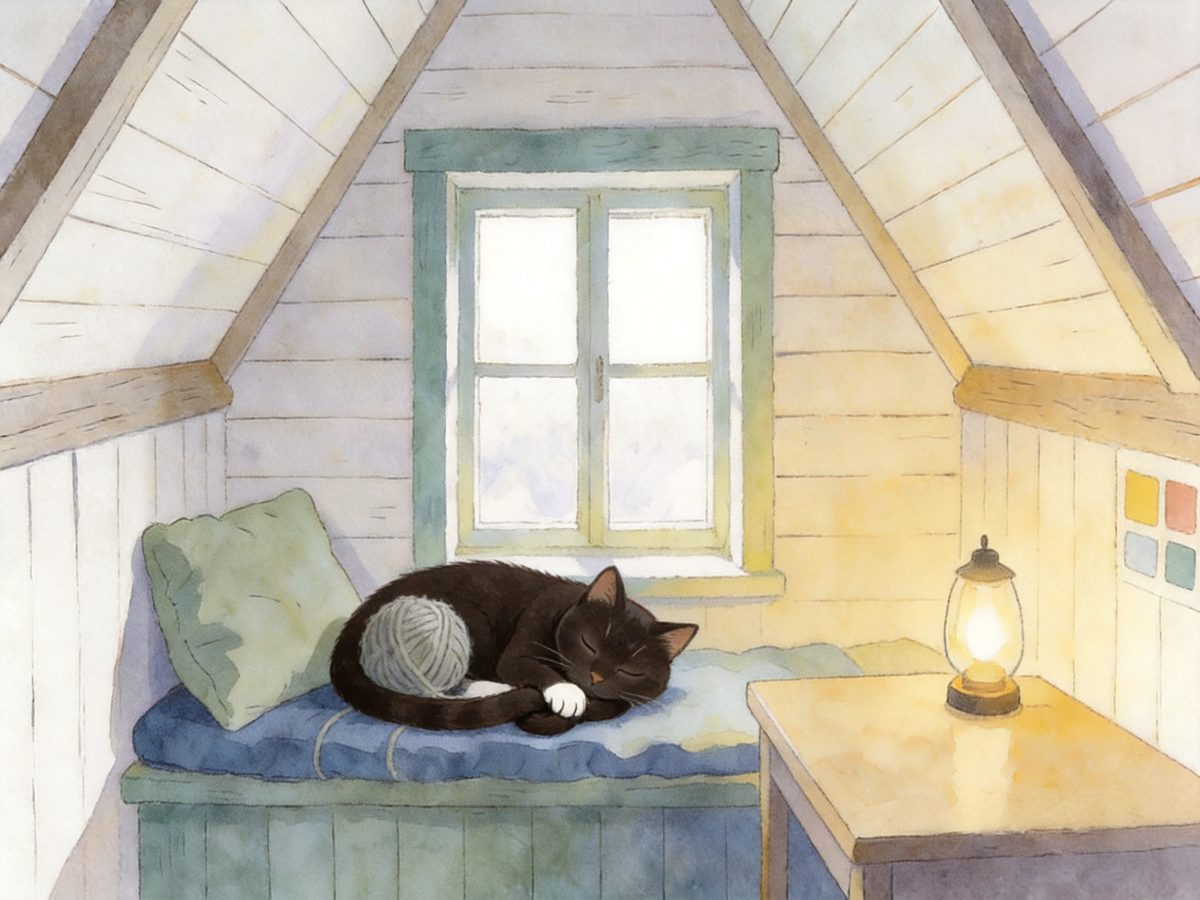
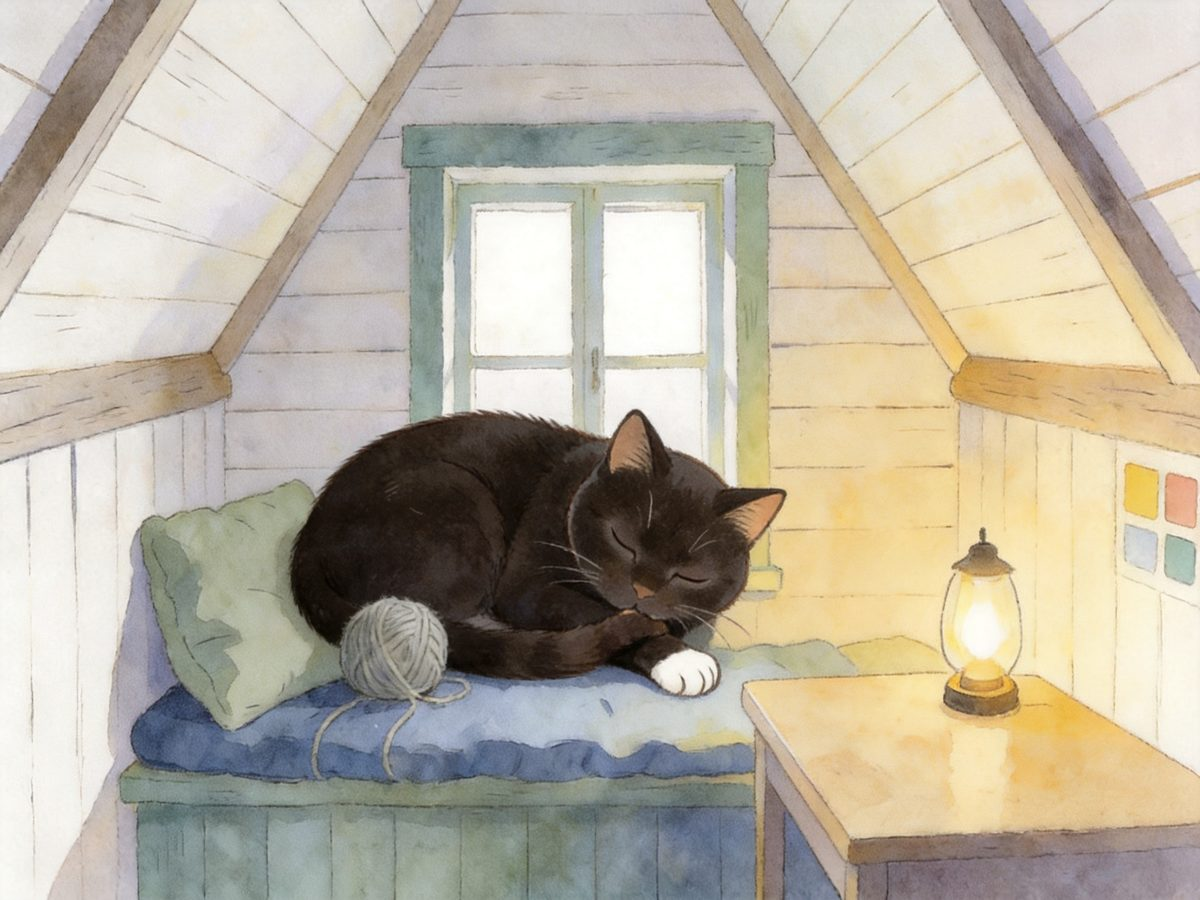
小屋 V1.5:从档案册到窗户——现场感优先
- 首屏顺序反转:小屋标题 → 猫啊岛第N天·时段·实时位置 → 「它正在……」
  (加大) → 心情 → 门口的生活痕迹(六句按天轮换) → 外貌/标签/简介弱化垫底
- 「最近这些天」替代角色总结:读每日结算的真实变化(赚了鱼币/和谁近了/
  心事进展),无数据才回退目标句
- 朋友卡收敛为一句关系事件:「第 19 天,和爆米花一起去看了灯塔」
- 生活册观察窗口化:每页补时段·地点·心情三要素行
- 生活照全量重生成:猫为绝对主角(约占画面高度一半,神态清晰),环境退为
  背景——修「旅游风景册」风险

diff --git a/app/cats/[id]/page.tsx b/app/cats/[id]/page.tsx
@@ -19,7 +19,8 @@ import { SubmitButton } from "@/components/SubmitButton";
 import { getViewerId } from "@/lib/identity";
 import { track } from "@vercel/analytics/server";
 import { LIFE_PHOTO_IDS, LIFE_PHOTO_PLACES } from "@/lib/cats-life";
-import { coinsLine, energyLine, sceneFor } from "@/lib/handbook";
+import { coinsLine, energyLine, marginNotes, sceneFor } from "@/lib/handbook";
+import { getLatestSummary } from "@/lib/queries";
 import { CAT_SECRETS, secretOfDay } from "@/lib/secrets";
 import { beijingHour, currentSegment, nowLine } from "@/lib/moments";
 import { catDayOf } from "@/lib/sim/lifecycle";
@@ -61,6 +62,16 @@ const HERO_FLAVORS = [
   "这是它常来的地方。",
 ];
 
+// 小屋门口的生活痕迹(按天轮换):小事情比大事件更有陪伴感
+const TRACE_LINES = [
+  "门口的碗里还剩小半条鱼干。",
+  "窗台上晾着一片捡回来的叶子。",
+  "垫子旁边散落着一团玩了一半的毛线。",
+  "门边立着它前几天拖回来的小木棍。",
+  "窗边的小贝壳被排成了一排。",
+  "晾着的毯子上还留着一个睡出来的窝。",
+];
+
 // 事件线阶段 → 心事语气(不出现任务/线/进度)
 function threadFlavor(step: number, total?: number): string {
   if (!total) return step <= 1 ? "才刚开了个头,还没跟谁细说" : "断断续续地,还在惦记";
@@ -88,7 +99,7 @@ export default async function CatPage({
   // 逛别的猫的主页 = 带自己的猫认识了一位邻居（小约定之二）
   if (myCat && myCat.id !== cat.id) after(() => recordMetNpc(myCat.id, cat.id).catch(() => {}));
 
-  const [state, diariesAll, friendsAll, storylines, catIndex, todayEvents, myRel] = await Promise.all([
+  const [state, diariesAll, friendsAll, storylines, catIndex, todayEvents, latestSummary, myRel] = await Promise.all([
     getCatState(id),
     getCatDiaries(id, 12),
     getFriends(id),
@@ -98,6 +109,7 @@ export default async function CatPage({
       where: { catId: id, day: world.day },
       select: { type: true, segment: true, isMain: true, data: true, targetId: true },
     }),
+    getLatestSummary(id),
     myCat && myCat.id !== id
       ? prisma.relationship.findFirst({
           where: {
@@ -132,6 +144,17 @@ export default async function CatPage({
   const photoPlace = LIFE_PHOTO_PLACES[cat.id];
   const heroCaption = `猫啊岛第 ${world.day} 天${photoPlace ? ` · ${photoPlace}` : ""}`;
   const heroFlavor = pick(mulberry32(hashSeed(world.day, "hero", cat.id)), HERO_FLAVORS);
+  const segCn = seg ? SEGMENT_CN[seg as Segment] : "夜里";
+  // 推开窗那行:现在几时、它在哪(这里用实时位置,和"此刻"叙事一致)
+  const momentDateLine = `猫啊岛第 ${world.day} 天 · ${segCn}${state?.location ? ` · ${state.location}` : ""}`;
+  const traceLine = pick(mulberry32(hashSeed(world.day, "trace", cat.id)), TRACE_LINES);
+  // 最近这些天:用每日结果里的真实变化(赚了鱼币/和谁近了/心事进展),不是角色总结
+  const recentNotes = latestSummary
+    ? marginNotes(
+        (latestSummary.stateChanges ?? []) as { label: string; delta: string }[],
+        ((latestSummary.threadProgress ?? []) as { label: string; step: number; total?: number; done?: boolean }[]).filter((t) => !t.done),
+      ).map((n) => n.replace(/^今天/, "前两天"))
+    : [];
 
   // ---- 关系是经历:第一次见面 + 最近一次,从事实回放派生 ----
   const friendIds = friends.map((f) => f.otherId);
@@ -165,21 +188,29 @@ export default async function CatPage({
   const dayMains = diaryDays.length
     ? await prisma.event.findMany({
         where: { catId: id, day: { in: diaryDays }, isMain: true },
-        select: { day: true, data: true },
+        select: { day: true, segment: true, data: true },
       })
     : [];
-  const sceneByDay = new Map<number, string>();
+  const mainByDay = new Map<number, { loc: string | null; seg: string }>();
   for (const e of dayMains) {
     const loc = (e.data as Record<string, unknown>)?.location;
-    if (typeof loc === "string" && !sceneByDay.has(e.day)) sceneByDay.set(e.day, sceneFor(loc));
+    if (!mainByDay.has(e.day)) mainByDay.set(e.day, { loc: typeof loc === "string" ? loc : null, seg: e.segment });
   }
-  const lifePages = diaries.map((d) => ({
-    id: d.id,
-    day: d.day,
-    mood: d.mood,
-    content: d.content,
-    sceneImg: sceneByDay.get(d.day) ?? null,
-  }));
+  const lifePages = diaries.map((d) => {
+    const main = mainByDay.get(d.day);
+    // 观察窗口三要素:时段 · 地点 · 心情——缺哪项省哪项
+    const meta = [main ? SEGMENT_CN[main.seg as Segment] : null, main?.loc, d.mood ? `心情${d.mood}` : null]
+      .filter(Boolean)
+      .join(" · ");
+    return {
+      id: d.id,
+      day: d.day,
+      mood: d.mood,
+      content: d.content,
+      sceneImg: main?.loc ? sceneFor(main.loc) : null,
+      metaLine: meta || null,
+    };
+  });
 
   const keepsakes =
     viewerState === "stranger"
@@ -203,7 +234,6 @@ export default async function CatPage({
     otherName: f.otherName,
     otherPortraitUrl: f.otherPortraitUrl,
     affinityText: describeAffinity(f.affinity),
-    firstStory: firstWith.get(f.otherId) ?? null,
     latestStory: latestWith.get(f.otherId) ?? null,
   }));
 
@@ -224,23 +254,29 @@ export default async function CatPage({
         </div>
 
         <div className="mt-6 md:col-span-2 md:mt-0">
+          {/* 推开窗的顺序:小屋 → 此刻(现场感优先) → 它是谁(弱化) */}
           <p className="text-xs tracking-widest text-ink-faint">
             {viewerState === "owner" ? "你常来串门的地方" : viewerState === "friend" ? `${myCat!.name}朋友的家` : "岛上的一间小屋"}
           </p>
           <h1 className="font-title mt-1 text-2xl font-bold">{cat.name}的小屋</h1>
-          <p className="mt-1.5 text-sm text-ink-soft">{cat.appearance}</p>
-          <div className="mt-2 flex flex-wrap gap-1.5">
-            {cat.personaTags.map((tag) => (
-              <span key={tag} className="border border-line px-2 py-0.5 text-xs text-ink-soft">
-                {tag}
-              </span>
-            ))}
-          </div>
-          {viewerState === "stranger" && bioFirstLine && (
-            <p className="mt-2 text-sm leading-relaxed text-ink">{bioFirstLine}</p>
-          )}
 
-          <CatCurrentMoment nowText={nowText} mood={state?.mood} />
+          <CatCurrentMoment dateLine={momentDateLine} nowText={nowText} mood={state?.mood} traceLine={traceLine} />
+
+          <div className="mt-4 border-t border-line pt-3">
+            <p className="text-xs text-ink-soft">{cat.appearance}</p>
+            <div className="mt-1.5 flex flex-wrap gap-1.5">
+              {cat.personaTags.map((tag) => (
+                <span key={tag} className="border border-line px-2 py-0.5 text-[11px] text-ink-faint">
+                  {tag}
+                </span>
+              ))}
+            </div>
+            {(viewerState === "stranger" ? bioFirstLine : cat.bio) && (
+              <p className="mt-2 text-xs leading-relaxed text-ink-soft">
+                {viewerState === "stranger" ? bioFirstLine : cat.bio}
+              </p>
+            )}
+          </div>
 
           {isOwner && (
             <a href="#nudge" className="mt-3 inline-block text-sm text-sea-deep hover:text-brick">
@@ -304,12 +340,12 @@ export default async function CatPage({
         <CatRelationship friends={friendCards} />
       )}
 
-      {/* ============ 最近的日子(生活轨迹,不是属性总结) ============ */}
+      {/* ============ 最近这些天(真实的变化,不是角色总结) ============ */}
       {viewerState !== "stranger" && (
         <div className="margin-note mt-6 border-t border-line pt-4">
-          <p className="text-xs tracking-widest text-ink-faint">最近的日子</p>
-          {cat.bio && <p className="mt-2">{cat.bio}</p>}
-          {cat.goal && GOAL_LINES[cat.goal] && <p>{GOAL_LINES[cat.goal]}</p>}
+          <p className="text-xs tracking-widest text-ink-faint">最近这些天</p>
+          {recentNotes.length > 0 && recentNotes.map((n, i) => <p key={i} className={i === 0 ? "mt-2" : ""}>{n}</p>)}
+          {recentNotes.length === 0 && cat.goal && GOAL_LINES[cat.goal] && <p className="mt-2">{GOAL_LINES[cat.goal]}</p>}
           {state && (
             <>
               <p>{coinsLine(state.coins)}</p>

diff --git a/components/cat-profile.tsx b/components/cat-profile.tsx
@@ -70,13 +70,24 @@ export function CatHeroScene({
   );
 }
 
-/** 此刻:第一眼要知道它现在在哪里、在干嘛 */
-export function CatCurrentMoment({ nowText, mood }: { nowText: string; mood: string | null | undefined }) {
+/** 此刻:推开窗第一眼——现在几时、它在哪、在干嘛、门口有什么生活痕迹 */
+export function CatCurrentMoment({
+  dateLine,
+  nowText,
+  mood,
+  traceLine,
+}: {
+  dateLine: string;
+  nowText: string;
+  mood: string | null | undefined;
+  traceLine: string | null;
+}) {
   return (
-    <div className="mt-4 border-t border-line pt-3">
-      <p className="text-xs tracking-widest text-ink-faint">此刻</p>
-      <p className="font-diary mt-1 text-[15px] leading-relaxed text-ink">{nowText}</p>
+    <div className="mt-3">
+      <p className="text-xs tracking-widest text-ink-soft">{dateLine}</p>
+      <p className="font-diary mt-2 text-[16px] leading-relaxed text-ink">{nowText}</p>
       <p className="mt-1 text-xs text-ink-soft">看起来{mood ? `心情${mood}` : "心情不错"}。</p>
+      {traceLine && <p className="font-diary mt-1.5 text-[13px] leading-relaxed text-ink-faint">{traceLine}</p>}
     </div>
   );
 }
@@ -124,7 +135,6 @@ export type FriendCard = {
   otherName: string;
   otherPortraitUrl: string | null;
   affinityText: string;
-  firstStory: SharedStory;
   latestStory: SharedStory;
 };
 
@@ -148,15 +158,10 @@ export function CatRelationship({ friends }: { friends: FriendCard[] }) {
                 <span className="text-[11px] text-sage">{f.affinityText}</span>
               </span>
               <span className="font-diary mt-0.5 block text-[13px] leading-snug text-ink-soft">
-                {f.firstStory
-                  ? `第 ${f.firstStory.day} 天认识——那天${f.firstStory.text}`
+                {f.latestStory
+                  ? `第 ${f.latestStory.day} 天,${f.latestStory.text}`
                   : "还没一起经历过什么,不过快了。"}
               </span>
-              {f.latestStory && f.latestStory.day !== f.firstStory?.day && (
-                <span className="font-diary mt-0.5 block text-[13px] leading-snug text-ink-faint">
-                  最近:{f.latestStory.text}
-                </span>
-              )}
             </span>
           </Link>
         ))}
@@ -165,7 +170,15 @@ export function CatRelationship({ friends }: { friends: FriendCard[] }) {
   );
 }
 
-export type LifePage = { id: string; day: number; mood: string; content: string; sceneImg: string | null };
+export type LifePage = {
+  id: string;
+  day: number;
+  mood: string;
+  content: string;
+  sceneImg: string | null;
+  /** 观察窗口的三要素:时段 · 地点 · 状态(缺哪项就省哪项) */
+  metaLine: string | null;
+};
 
 /** 生活册:每一天是一张照片卡——日期手写、照片贴上、一句话,想读全文再翻开 */
 export function CatLifeBook({
@@ -194,11 +207,12 @@ export function CatLifeBook({
           return (
             <article key={d.id} className="note-slip p-4" style={{ transform: `rotate(${i % 2 === 0 ? "-0.3" : "0.3"}deg)` }}>
               <div className="flex items-baseline justify-between">
-                <p className="font-diary text-[13px] text-ink-soft">猫啊岛 第 {d.day} 天 · {d.mood}</p>
+                <p className="font-diary text-[13px] text-ink-soft">猫啊岛 第 {d.day} 天</p>
                 <Link href={`/share/${catId}/${d.day}`} className="text-xs text-ink-faint hover:text-brick">
                   分享卡
                 </Link>
               </div>
+              {d.metaLine && <p className="text-[11px] text-ink-faint">{d.metaLine}</p>}
               {d.sceneImg && (
                 <div className="mt-2 overflow-hidden rounded-sm border border-line">
                   <Image src={d.sceneImg} alt="" width={1200} height={686} loading="lazy" className="w-full" />

diff --git a/scripts/lifephotos.ts b/scripts/lifephotos.ts
@@ -52,8 +52,8 @@ async function main() {
       prompt:
         `把参考图1里的这只猫,自然地画进参考图2的场景里:${action}。` +
         "这是它日常生活里的一个安静瞬间,像绘本里的一页。" +
-        "猫的花色、五官、体型必须和参考图1完全一致;场景的构图、配色、水彩纸纹必须和参考图2完全一致;" +
-        "猫在画面中的比例自然(约占画面高度三分之一),光线与场景统一。" +
+        "猫的花色、五官、体型必须和参考图1完全一致;场景的配色、水彩纸纹必须和参考图2完全一致;" +
+        "猫是画面的绝对主角,离镜头较近,占画面高度约一半,神态清晰生动;环境作为背景衬托,光线与场景统一。" +
         "画面里只有这一只猫,无其他动物无人物无文字无水印,不要出现飞鸟和凭空漂浮的元素",
       size: "2304x1728",
       referenceImages: [
